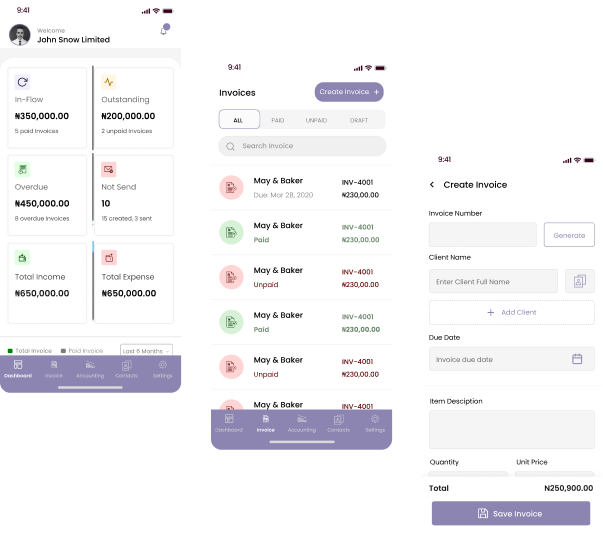
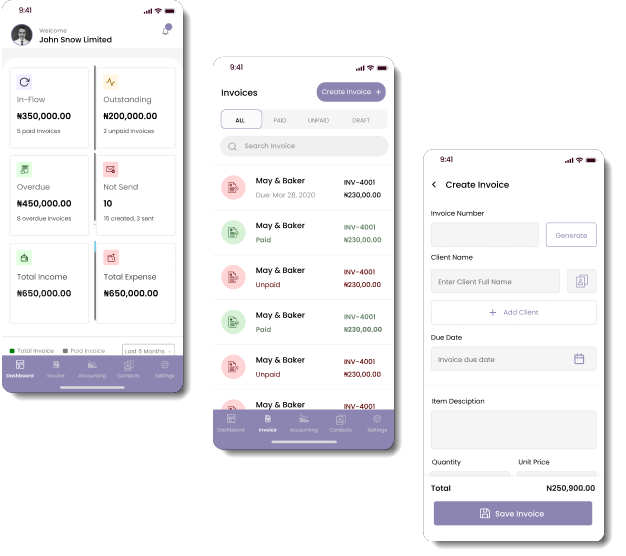
acute mobile modal

diff --git a/webapp/src/pages/modalContent/Acute.js b/webapp/src/pages/modalContent/Acute.js
@@ -5,84 +5,163 @@ import ColorPanel from "../../components/colorPanel";
 
 const Acute = () => {
     return (
-        <div className="bg-white m-12 mx-10p flex flex-col text-base text-white">
-            <div className="bg-acute flex">
-                <div className="w-6/12 p-10">
-                    <p className="text-25p mt-32">Acute Invoice Mobile Application Design</p>
-                    <p className="mt-8">AcuteInvoice is an invoice web application that lets you stay organized, keep track of your payment, record your expenses and monitor the performance of your business anytime, anywhere .</p>
-                    <p className="text-25p mt-6">Problem Statement</p>
-                    <p className="mt-8">AcuteInvoice as a business account and invoice software wants to make it painless for targetted business audience on the go to be able to manage their invoicing and accounting software while on the go.</p>
-                    <p className="mt-8 mb-10">These prompt for the need to have a mobile application to manage and create invoice on the go for business owners.</p>
-                </div>
-                <div className="w-6/12 relative">
-                    <img className="absolute" src={images.IMAGE_ACUTE1} style={{ top:"10%", right:"10%"}}></img>
-                </div>
-            </div>
-            <div className="p-10 pt-6 flex flex-col text-black">
-                <p className="text-gray-600 text-sm">Style Guide</p>
-                <div className="flex flex-wrap">
-                    <div className="flex flex-col pr-10">
-                        <p className="text-3xl mt-8">Colors</p>
-                        <div className="mt-10 flex">
-                            <ColorPanel className="mr-5 w-90 h-90 rounded-lg text-sm text-white" color="#645C8F" />
-                            <ColorPanel className="mr-5 w-90 h-90 rounded-lg text-sm text-white" color="#000000" />
-                            <ColorPanel className="mr-5 w-90 h-90 rounded-lg text-sm text-white" color="#6D6C6C" />
+        <div>
+            <BrowserView>
+                <div className="bg-white m-12 mx-10p flex flex-col text-base text-white">
+                    <div className="bg-acute flex">
+                        <div className="w-6/123">
+                            <p className="text-25p mt-32">Acute Invoice Mobile Application Design</p>
+                            <p className="mt-8">AcuteInvoice is an invoice web application that lets you stay organized, keep track of your payment, record your expenses and monitor the performance of your business anytime, anywhere .</p>
+                            <p className="text-25p mt-6">Problem Statement</p>
+                            <p className="mt-8">AcuteInvoice as a business account and invoice software wants to make it painless for targetted business audience on the go to be able to manage their invoicing and accounting software while on the go.</p>
+                            <p className="mt-8 mb-10">These prompt for the need to have a mobile application to manage and create invoice on the go for business owners.</p>
+                        </div>
+                        <div className="w-6/12 relative">
+                            <img className="absolute" src={images.IMAGE_ACUTE1} style={{ top: "10%", right: "10%" }}></img>
                         </div>
                     </div>
-                    <div className="flex flex-col">
-                        <p className="text-3xl mt-8">Typography</p>
-                        <p className="text-2xl text-lightBlack mt-8">Acute invoice use Poppins Google Font</p>
-                        <div className="flex mt-8">
-                            <div className="flex flex-col mr-10">
-                                <div className="flex items-baseline">
-                                    <p className="text-4xl">Aa</p> &nbsp;
-                            <p className="text-2xl text-lightBlack">Poppins - Medium</p>
-                                </div>
-                                <div className="flex items-baseline">
-                                    <p className="font-poppins text-2xl text-lightBlack">18.00px/Heading</p> &nbsp;
-                            <p className="font-poppins text-3xl">A Visual Type Scale</p>
+                    <div className="p-10 pt-6 flex flex-col text-black">
+                        <p className="text-gray-600 text-sm">Style Guide</p>
+                        <div className="flex flex-wrap">
+                            <div className="flex flex-col pr-10">
+                                <p className="text-3xl mt-8">Colors</p>
+                                <div className="mt-10 flex">
+                                    <ColorPanel className="mr-5 w-90 h-90 rounded-lg text-sm text-white" color="#645C8F" />
+                                    <ColorPanel className="mr-5 w-90 h-90 rounded-lg text-sm text-white" color="#000000" />
+                                    <ColorPanel className="mr-5 w-90 h-90 rounded-lg text-sm text-white" color="#6D6C6C" />
                                 </div>
                             </div>
                             <div className="flex flex-col">
-                                <div className="flex items-baseline">
-                                    <p className="text-4xl">Aa</p> &nbsp;
+                                <p className="text-3xl mt-8">Typography</p>
+                                <p className="text-2xl text-lightBlack mt-8">Acute invoice use Poppins Google Font</p>
+                                <div className="flex mt-8">
+                                    <div className="flex flex-col mr-10">
+                                        <div className="flex items-baseline">
+                                            <p className="text-4xl">Aa</p> &nbsp;
+                            <p className="text-2xl text-lightBlack">Poppins - Medium</p>
+                                        </div>
+                                        <div className="flex items-baseline">
+                                            <p className="font-poppins text-2xl text-lightBlack">18.00px/Heading</p> &nbsp;
+                            <p className="font-poppins text-3xl">A Visual Type Scale</p>
+                                        </div>
+                                    </div>
+                                    <div className="flex flex-col">
+                                        <div className="flex items-baseline">
+                                            <p className="text-4xl">Aa</p> &nbsp;
                             <p className="text-2xl text-lightBlack">Poppins - Regular</p>
-                                </div>
-                                <div className="flex items-baseline">
-                                    <p className="font-poppins text-xl text-lightBlack">16.00px/Heading</p> &nbsp;
+                                        </div>
+                                        <div className="flex items-baseline">
+                                            <p className="font-poppins text-xl text-lightBlack">16.00px/Heading</p> &nbsp;
                             <p className="font-poppins text-2xl">A Visual Type Scale</p>
+                                        </div>
+                                    </div>
                                 </div>
                             </div>
                         </div>
-                    </div>
-                </div>
 
-                <div className="flex flex-col items-center mt-10">
-                    <p className="text-3xl">Design Solution</p>
-                    <p className="text-xl text-lightBlack">High Fidelity Screen Design</p>
-                </div>
-                <div className="h-20"></div>
-                {[
-                    {
-                        pageName: "Onboarding",
-                        src: images.IMAGE_ACUTE2
-                    },
-                    {
-                        pageName: "Login / Sign Up",
-                        src: images.IMAGE_ACUTE3
-                    },
-                    {
-                        pageName: "Dashboard",
-                        src: images.IMAGE_ACUTE4
-                    },
-                ].map((page) => (
-                    <div className="flex flex-col items-center">
-                        <p className="text-3xl mb-5">{page.pageName}</p>
-                        <img className="pl-32" src={page.src}></img>
+                        <div className="flex flex-col items-center mt-10">
+                            <p className="text-3xl">Design Solution</p>
+                            <p className="text-xl text-lightBlack">High Fidelity Screen Design</p>
+                        </div>
+                        <div className="h-20"></div>
+                        {[
+                            {
+                                pageName: "Onboarding",
+                                src: images.IMAGE_ACUTE2
+                            },
+                            {
+                                pageName: "Login / Sign Up",
+                                src: images.IMAGE_ACUTE3
+                            },
+                            {
+                                pageName: "Dashboard",
+                                src: images.IMAGE_ACUTE4
+                            },
+                        ].map((page) => (
+                            <div className="flex flex-col items-center">
+                                <p className="text-3xl mb-5">{page.pageName}</p>
+                                <img className="pl-32" src={page.src}></img>
+                            </div>
+                        ))}
                     </div>
-                ))}
-            </div>
-            <img className="w-full" src={images.IMAGE_ACUTE5}></img>
+                    <img className="w-full" src={images.IMAGE_ACUTE5}></img>
+                </div>
+            </BrowserView>
+            <MobileView>
+                <div className="bg-white flex flex-col text-xs text-white">
+                    <div className="bg-acute flex flex-col items-center">
+                        <div className="p-3">
+                            <p className="text-sm mt-10">Acute Invoice Mobile Application Design</p>
+                            <p className="mt-3">AcuteInvoice is an invoice web application that lets you stay organized, keep track of your payment, record your expenses and monitor the performance of your business anytime, anywhere .</p>
+                            <p className="text-sm mt-2">Problem Statement</p>
+                            <p className="mt-3">AcuteInvoice as a business account and invoice software wants to make it painless for targetted business audience on the go to be able to manage their invoicing and accounting software while on the go.</p>
+                            <p className="mt-3">These prompt for the need to have a mobile application to manage and create invoice on the go for business owners.</p>
+                        </div>
+                        <div className="px-10">
+                            <img className="object-scale-down" src={images.IMAGE_ACUTE1} style={{ top: "10%", right: "10%" }}></img>
+                        </div>
+                    </div>
+                    <div className="p-3 pt-4 flex flex-col text-black text-center">
+                        <p className="text-gray-600 text-sm">Style Guide</p>
+                        <div className="flex flex-col">
+                            <p className="text-xl mt-3">Colors</p>
+                            <div className="mt-5 flex flex-wrap justify-between">
+                                <ColorPanel className="w-90 h-90 rounded-lg text-xs text-white" color="#645C8F" />
+                                <ColorPanel className="w-90 h-90 rounded-lg text-xs text-white" color="#000000" />
+                                <ColorPanel className="w-90 h-90 rounded-lg text-xs text-white" color="#6D6C6C" />
+                            </div>
+
+                            <p className="text-xl my-5">Typography</p>
+                            <p className="text-base text-lightBlack mb-5">Acute invoice use Poppins Google Font</p>
+
+                            <div className="flex justify-center items-baseline mb-2">
+                                <p className="text-2xl">Aa</p> &nbsp;
+                                <p className="text-base text-lightBlack">Poppins - Medium</p>
+                            </div>
+
+                            <div className="flex justify-center items-baseline mb-8">
+                                <p className="font-poppins text-base text-lightBlack">18.00px/Heading</p> &nbsp;
+                                <p className="font-poppins text-lg">A Visual Type Scale</p>
+                            </div>
+
+                            <div className="flex justify-center items-baseline mb-2">
+                                <p className="text-2xl">Aa</p> &nbsp;
+                                <p className="text-base text-lightBlack">Poppins - Regular</p>
+                            </div>
+
+                            <div className="flex justify-center items-baseline mb-8">
+                                <p className="font-poppins text-xs text-lightBlack">16.00px/Heading</p> &nbsp;
+                                <p className="font-poppins text-base">A Visual Type Scale</p>
+                            </div>
+
+                            <p className="text-xl">Design Solution</p>
+                            <p className="text-xs text-lightBlack">High Fidelity Screen Design</p>
+
+                            <div className="h-10"></div>
+                            {[
+                                {
+                                    pageName: "Onboarding",
+                                    src: images.IMAGE_ACUTE2
+                                },
+                                {
+                                    pageName: "Login / Sign Up",
+                                    src: images.IMAGE_ACUTE3
+                                },
+                                {
+                                    pageName: "Dashboard",
+                                    src: images.IMAGE_ACUTE4
+                                },
+                            ].map((page) => (
+                                <div className="flex flex-col items-center">
+                                    <p className="text-xl mb-3">{page.pageName}</p>
+                                    <img className="w-full" src={page.src}></img>
+                                </div>
+                            ))}
+                        </div>
+                        <img className="w-full" src={images.IMAGE_ACUTE5}></img>
+                    </div>
+                </div>
+            </MobileView>
         </div>
     );
 }

diff --git a/webapp/src/pages/projects.js b/webapp/src/pages/projects.js
@@ -49,55 +49,55 @@ const IndexPage = (props) => {
     },
   ];
   const graphics = [
-    { 
+    {
       image: images.IMAGE_GRAPHICS1,
       title: "Game Over Graphics Design"
     },
-    { 
+    {
       image: images.IMAGE_GRAPHICS2,
       title: "Beauty and the Beast Graphics Design"
     },
-    { 
+    {
       image: images.IMAGE_GRAPHICS3,
       title: "Thorin Graphics Design"
     },
-    { 
+    {
       image: images.IMAGE_GRAPHICS4,
       title: "Take my Heart Graphics Design"
     },
-    { 
+    {
       image: images.IMAGE_GRAPHICS5,
       title: "Slay Queen Graphics Design"
     },
-    { 
+    {
       image: images.IMAGE_GRAPHICS6,
       title: "Social Butterfly Graphics Design"
     },
   ];
   const pencils = [
-    { 
+    {
       image: images.IMAGE_PENCILS1,
-      title: "Graphite Pencil Art - Beauty in the eyes" 
+      title: "Graphite Pencil Art - Beauty in the eyes"
     },
-    { 
+    {
       image: images.IMAGE_PENCILS2,
-      title: "Graphite on Paper - Our Daily Bread" 
+      title: "Graphite on Paper - Our Daily Bread"
     },
-    { 
+    {
       image: images.IMAGE_PENCILS3,
-      title: "Graphite on Paper - Happiness is Free" 
+      title: "Graphite on Paper - Happiness is Free"
     },
-    { 
+    {
       image: images.IMAGE_PENCILS4,
-      title: "Graphite on Paper" 
+      title: "Graphite on Paper"
     },
-    { 
+    {
       image: images.IMAGE_PENCILS5,
-      title: "Graphite Pencil Drawing" 
+      title: "Graphite Pencil Drawing"
     },
-    { 
+    {
       image: images.IMAGE_PENCILS6,
-      title: "Graphite Pencil Drawing" 
+      title: "Graphite Pencil Drawing"
     },
   ];
 
@@ -129,17 +129,33 @@ const IndexPage = (props) => {
         <div className="flex flex-col min-h-screen justify-between" style={{ margin: '-15px' }}>
           {ModalContents[modal]}
           <div className="bg-blacker text-white flex flex-col items-center">
-            <p className="text-50 mt-8">Have a project Idea?</p>
-            <p className="text-50">Talk to me about it.</p>
-            <Link to="/contact" className="my-5 mb-24">
-              <button className="w-full py-5 text-xl text-white bg-primary rounded-lg  px-20 flex items-center justify-center">
-                <svg width="25" height="24" viewBox="0 0 25 24" fill="none" xmlns="http://www.w3.org/2000/svg">
-                  <path d="M21.5 11.5C21.5034 12.8199 21.1951 14.1219 20.6 15.3C19.8944 16.7118 18.8098 17.8992 17.4674 18.7293C16.1251 19.5594 14.5782 19.9994 13 20C11.6801 20.0035 10.3781 19.6951 9.2 19.1L3.5 21L5.4 15.3C4.80493 14.1219 4.49656 12.8199 4.5 11.5C4.50061 9.92179 4.94061 8.37488 5.77072 7.03258C6.60083 5.69028 7.78825 4.6056 9.2 3.90003C10.3781 3.30496 11.6801 2.99659 13 3.00003H13.5C15.5843 3.11502 17.553 3.99479 19.0291 5.47089C20.5052 6.94699 21.385 8.91568 21.5 11V11.5Z" stroke="white" stroke-width="2" stroke-linecap="round" stroke-linejoin="round" />
-                </svg>
+            <BrowserView>
+              <p className="text-50 mt-8">Have a project Idea?</p>
+              <p className="text-50">Talk to me about it.</p>
+              <Link to="/contact" className="my-5 mb-24">
+                <button className="w-full py-5 text-xl text-white bg-primary rounded-lg  px-20 flex items-center justify-center">
+                  <svg width="25" height="24" viewBox="0 0 25 24" fill="none" xmlns="http://www.w3.org/2000/svg">
+                    <path d="M21.5 11.5C21.5034 12.8199 21.1951 14.1219 20.6 15.3C19.8944 16.7118 18.8098 17.8992 17.4674 18.7293C16.1251 19.5594 14.5782 19.9994 13 20C11.6801 20.0035 10.3781 19.6951 9.2 19.1L3.5 21L5.4 15.3C4.80493 14.1219 4.49656 12.8199 4.5 11.5C4.50061 9.92179 4.94061 8.37488 5.77072 7.03258C6.60083 5.69028 7.78825 4.6056 9.2 3.90003C10.3781 3.30496 11.6801 2.99659 13 3.00003H13.5C15.5843 3.11502 17.553 3.99479 19.0291 5.47089C20.5052 6.94699 21.385 8.91568 21.5 11V11.5Z" stroke="white" stroke-width="2" stroke-linecap="round" stroke-linejoin="round" />
+                  </svg>
                 &nbsp;
                 Let's Talk
               </button>
-            </Link>
+              </Link>
+            </BrowserView>
+            <MobileView>
+              <p className="text-xl mt-4">Have a project Idea?</p>
+              <p className="text-xl">Talk to me about it.</p>
+              <Link to="/contact" className="my-5 mb-10">
+                <button className="w-full py-3 text-base text-white bg-primary rounded-lg  px-10 flex items-center justify-center">
+                  <svg width="25" height="24" viewBox="0 0 25 24" fill="none" xmlns="http://www.w3.org/2000/svg">
+                    <path d="M21.5 11.5C21.5034 12.8199 21.1951 14.1219 20.6 15.3C19.8944 16.7118 18.8098 17.8992 17.4674 18.7293C16.1251 19.5594 14.5782 19.9994 13 20C11.6801 20.0035 10.3781 19.6951 9.2 19.1L3.5 21L5.4 15.3C4.80493 14.1219 4.49656 12.8199 4.5 11.5C4.50061 9.92179 4.94061 8.37488 5.77072 7.03258C6.60083 5.69028 7.78825 4.6056 9.2 3.90003C10.3781 3.30496 11.6801 2.99659 13 3.00003H13.5C15.5843 3.11502 17.553 3.99479 19.0291 5.47089C20.5052 6.94699 21.385 8.91568 21.5 11V11.5Z" stroke="white" stroke-width="2" stroke-linecap="round" stroke-linejoin="round" />
+                  </svg>
+                &nbsp;
+                Let's Talk
+              </button>
+              </Link>
+              <FollowMe className="mb-20"/>
+            </MobileView>
           </div>
         </div>
       </PureModal>)
@@ -165,7 +181,7 @@ const IndexPage = (props) => {
         <MobileView>
           <div className="absolute top-0 min-h-full min-w-full flex flex-col justify-end items-center">
             <div className="rounded-t-xl w-full py-3 bg-white opacity-0.8 text-lg flex justify-center text-black"
-              onClick={() => { if(tab === "uis") setModal(index)}}>
+              onClick={() => { if (tab === "uis") setModal(index) }}>
               <p className="text-sm">
                 {children}
               </p>
@@ -184,9 +200,9 @@ const IndexPage = (props) => {
           <div className="flex justify-between min-h-screen flex-col" style={{ paddingTop: "89px" }}>
             <Heading className="pt-10 pb-5 text-lightBlack">What I have DONE.</Heading>
             <div className="flex">
-              <button className={ tab == "uis"?"tabButtonActive":"tabButtonNormal" + " mr-3"} onClick={() => setTab("uis")}>UI/UX</button>
-              <button className={ tab == "graphics"?"tabButtonActive":"tabButtonNormal" + " mr-3"} onClick={() => setTab("graphics")}>Graphics Design</button>
-              <button className={ tab == "pencils"?"tabButtonActive":"tabButtonNormal" + " mr-3"} onClick={() => setTab("pencils")}>Pencil Art</button>
+              <button className={tab == "uis" ? "tabButtonActive" : "tabButtonNormal" + " mr-3"} onClick={() => setTab("uis")}>UI/UX</button>
+              <button className={tab == "graphics" ? "tabButtonActive" : "tabButtonNormal" + " mr-3"} onClick={() => setTab("graphics")}>Graphics Design</button>
+              <button className={tab == "pencils" ? "tabButtonActive" : "tabButtonNormal" + " mr-3"} onClick={() => setTab("pencils")}>Pencil Art</button>
             </div>
             <div className="flex justify-between my-10">
               <div className="flex flex-col justify-between w-6/12 pr-5">
@@ -242,9 +258,9 @@ const IndexPage = (props) => {
             <div className="bg-aboutPanel pt-16 text-lightBlack text-base w-full smd:pb-20">
               <Heading className="mb-4">I’ve got good experience</Heading>
               <div className="flex">
-                <button className={ tab == "uis"?"tabButtonMobileActive":"tabButtonMobileNormal" + " mr-3"} onClick={() => setTab("uis")}>UI/UX</button>
-                <button className={ tab == "graphics"?"tabButtonMobileActive":"tabButtonMobileNormal" + " mr-3"} onClick={() => setTab("graphics")}>Graphics Design</button>
-                <button className={ tab == "pencils"?"tabButtonMobileActive":"tabButtonMobileNormal" + " mr-3"} onClick={() => setTab("pencils")}>Pencil Art</button>
+                <button className={tab == "uis" ? "tabButtonMobileActive" : "tabButtonMobileNormal" + " mr-3"} onClick={() => setTab("uis")}>UI/UX</button>
+                <button className={tab == "graphics" ? "tabButtonMobileActive" : "tabButtonMobileNormal" + " mr-3"} onClick={() => setTab("graphics")}>Graphics Design</button>
+                <button className={tab == "pencils" ? "tabButtonMobileActive" : "tabButtonMobileNormal" + " mr-3"} onClick={() => setTab("pencils")}>Pencil Art</button>
               </div>
               <div className="flex flex-col justify-between">
                 {allProject[tab].map((project, index) => (

diff --git a/webapp/src/constants/images.js b/webapp/src/constants/images.js
@@ -9,9 +9,9 @@ const images = {
 
     IMAGE_ACUTE: require("../images/project/acute.png"),
     IMAGE_ACUTE1: require("../images/project/acute/acute1.png"),
-    IMAGE_ACUTE2: require("../images/project/acute/acute2.svg"),
-    IMAGE_ACUTE3: require("../images/project/acute/acute3.svg"),
-    IMAGE_ACUTE4: require("../images/project/acute/acute4.svg"),
+    IMAGE_ACUTE2: require("../images/project/acute/acute2.png"),
+    IMAGE_ACUTE3: require("../images/project/acute/acute3.png"),
+    IMAGE_ACUTE4: require("../images/project/acute/acute4.png"),
     IMAGE_ACUTE5: require("../images/project/acute/acute5.svg"),
 
     IMAGE_MOBILE: require("../images/project/mobile.png"),
